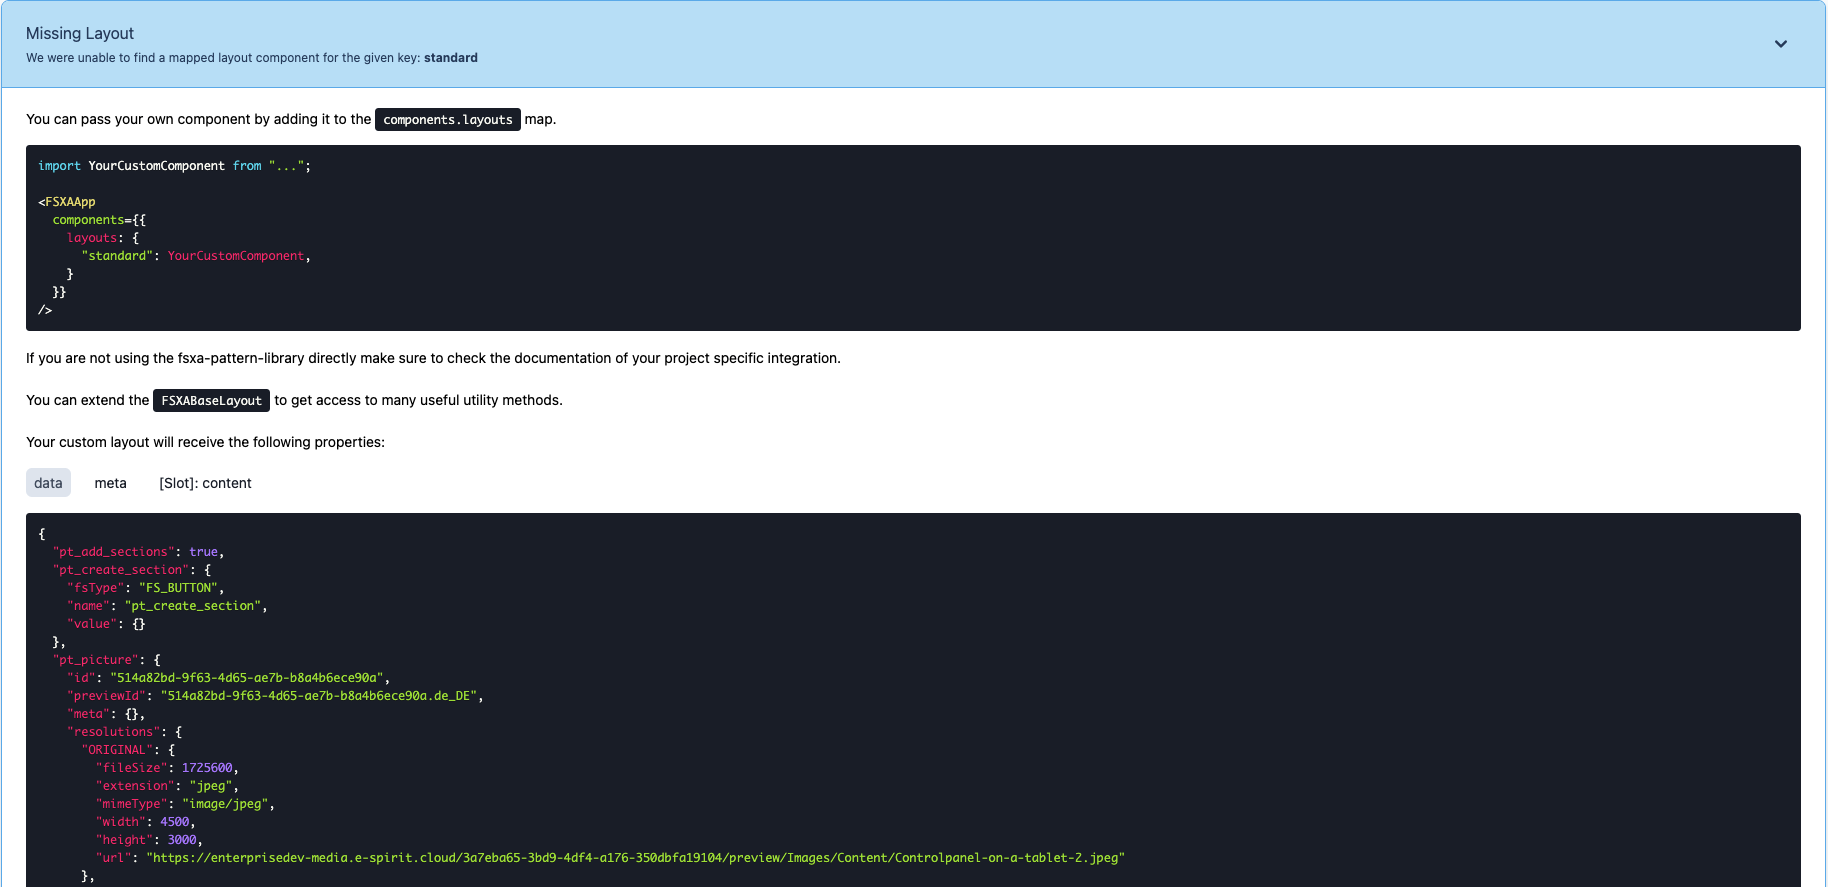
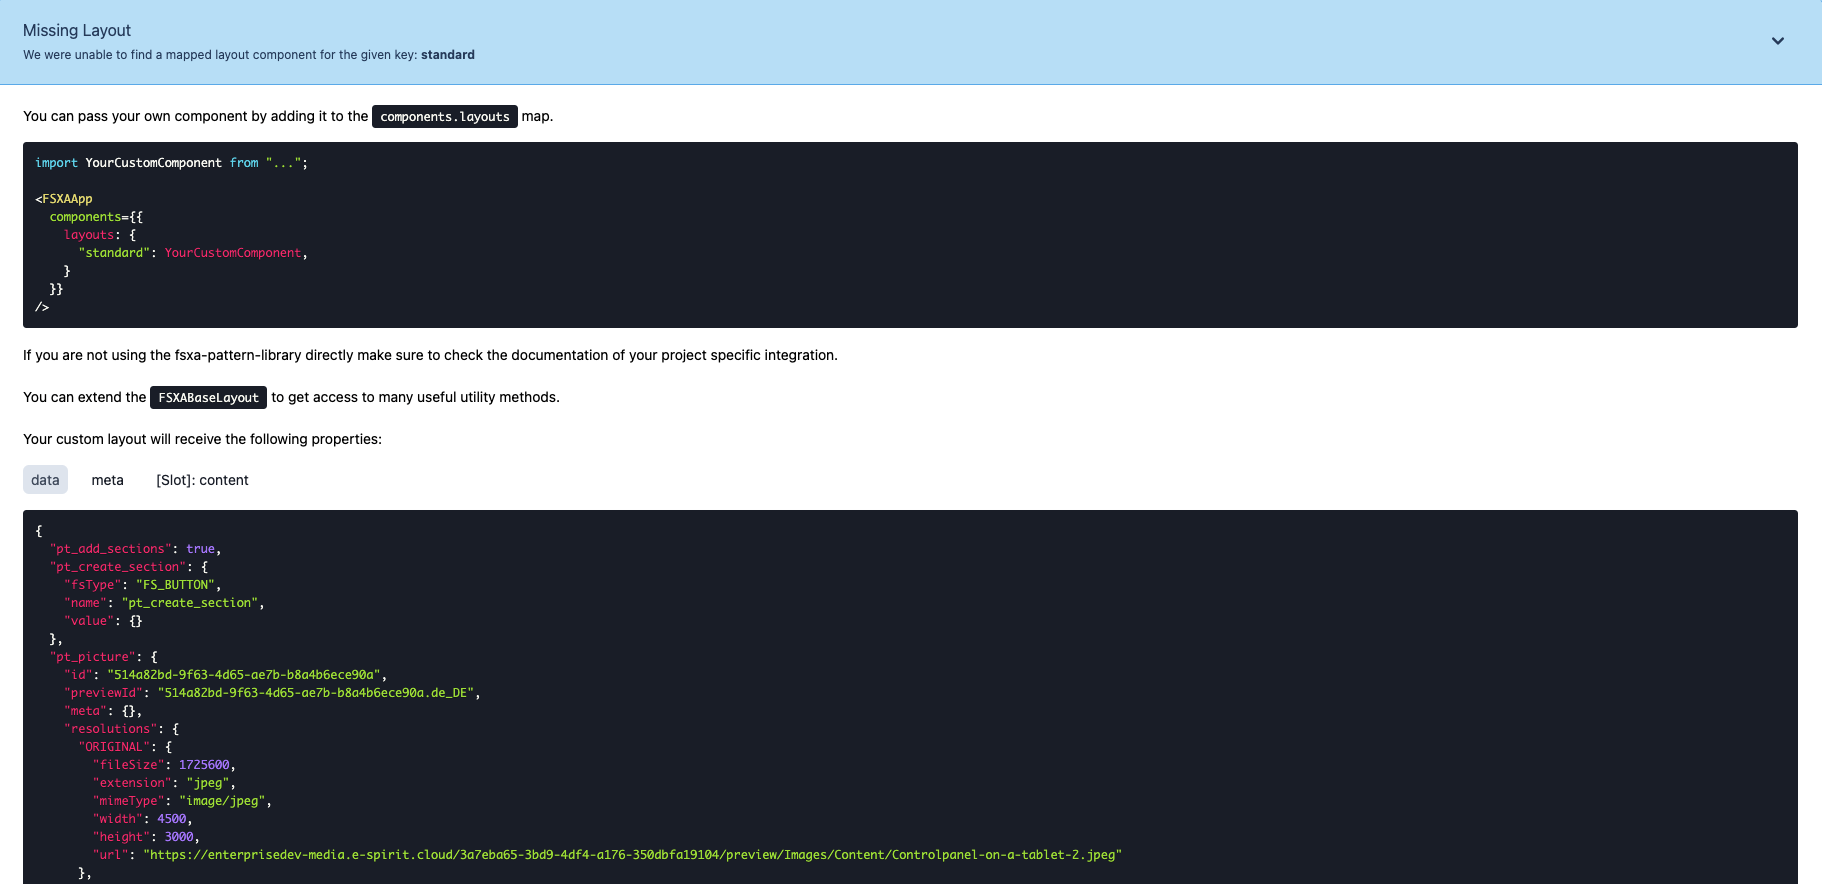
docs(devmode): changed directory of pictures and cropped the images

diff --git a/docs/DevMode.md b/docs/DevMode.md
@@ -1,6 +1,6 @@
 # Development Mode
 
-[<< Back to index](index.md)
+[Readme](./index.md) » Development Mode
 
 1. [Introduction](#introduction)
 2. [Missing Components](#missing-components)
@@ -20,7 +20,7 @@ To enable the development mode, the variable `devMode` must be set to `true` in 
 
 If you are in development mode and a component on the page has not been developed yet, you will get an info box which shows exactly which component is missing and what information can be addressed.
 
-![Missing Layout](../assets/documentation/DevMode/MissingLayout.png)
+![Missing Layout](./imgs/DevMode/MissingLayout.png)
 
 The `components` map can be found in the `fsxa.config.ts` in the root directory of your project.
 
@@ -28,7 +28,7 @@ The `components` map can be found in the `fsxa.config.ts` in the root directory 
 
 If you have already implemented a component, you will see a question mark icon when hovering over the element.
 
-![QuestionMark](../assets/documentation/DevMode/QuestionMark.png)
+![QuestionMark](./imgs/DevMode/QuestionMark.png)
 
 Clicking on this question mark will provide you with more information about which component is being displayed and what data is available.
 
@@ -36,19 +36,19 @@ Clicking on this question mark will provide you with more information about whic
 
 This tab shows you all of the data that is available in the scope of this component. The data is defined by the FirstSpirit Template used to describe the current section or layout.
 
-![InfoboxData](../assets/documentation/DevMode/InfoboxData.png)
+![InfoboxData](./imgs/DevMode/InfoboxData.png)
 
 ### Meta
 
-This tab sometimes contains information about the route, the FirstSpirit database scheme, entity types, previewId and other FirstSpirit related meta information.
+This tab may contain information about the route, the FirstSpirit database scheme, entity types, previewId and other FirstSpirit related meta information.
 
-![InfoboxMeta](../assets/documentation/DevMode/InfoboxMeta.png)
+![InfoboxMeta](./imgs/DevMode/InfoboxMeta.png)
 
 ### Slots
 
 This tab only appears on layout components. It tells you which slots of your layout component are being used. You can control where you render the slot but you will get prerendered content passed into it. If for example you have a layout with two named slots, `header` and `content` the following would be an example of how you would render the slots in your component.
 
-![InfoboxSlots](../assets/documentation/DevMode/InfoboxSlots.png)
+![InfoboxSlots](./imgs/DevMode/InfoboxSlots.png)
 
 SFC example
 
@@ -103,4 +103,4 @@ For more information on slots, check out the [Vue.js documentation](https://vuej
 
 In case an error occurs within one of your components. It will get replaced by an error box to aid you in finding the cause as quickly as possible. This box displays the stack trace and takes the position of your component on the screen.
 
-![Error](../assets/documentation/DevMode/Error.png)
+![Error](./imgs/DevMode/Error.png)
